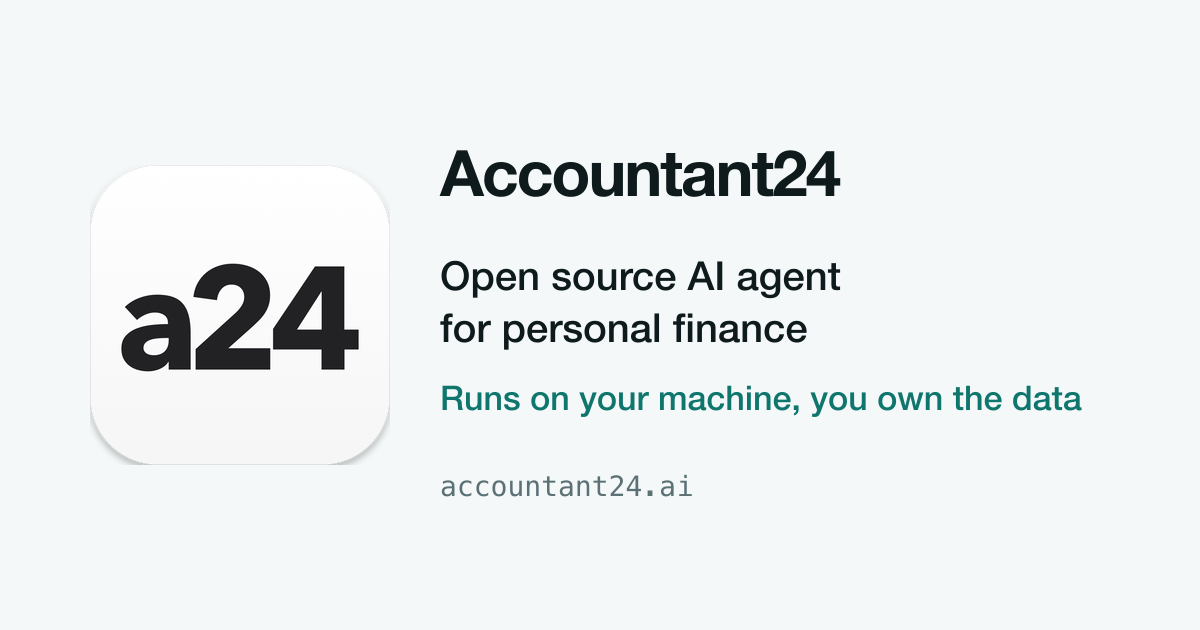
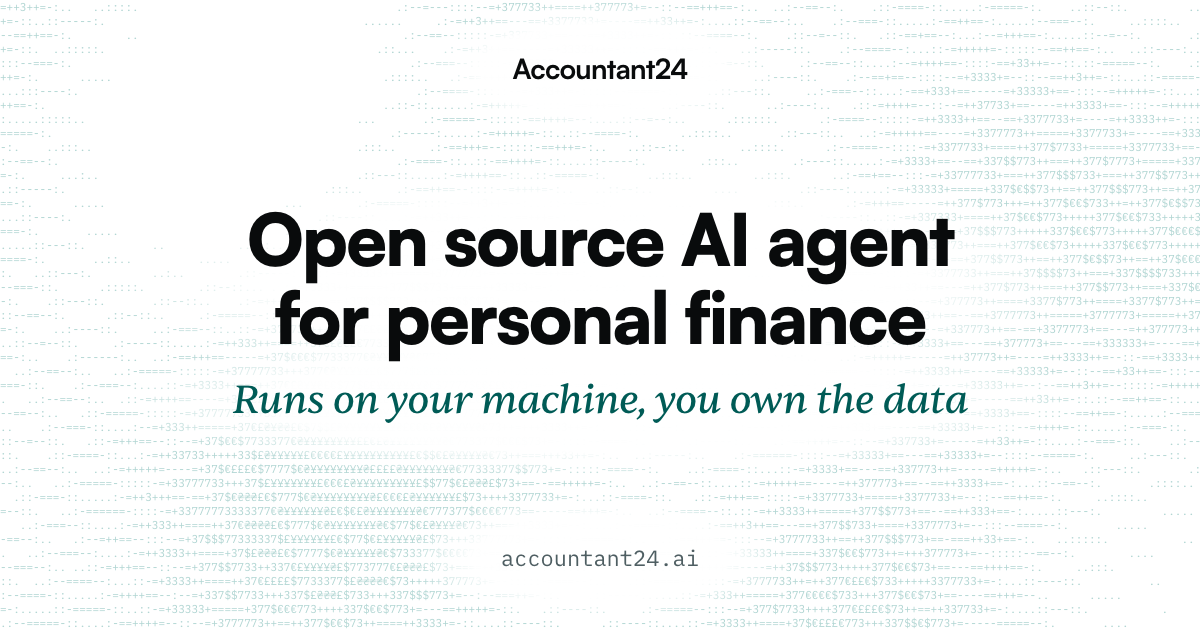
feat: match the link preview card to the landing page design
- Render the Open Graph card from an Astro page in the site's own type, palette, copy and field
- Screenshot it with Playwright through the site's dev server in `brand-assets.mjs`
- Keep the card's styles scoped and its folder out of the Tailwind scan
- Drop the desktop-icon favicon and touch icon generation from the script

diff --git a/packages/website/src/styles/global.css b/packages/website/src/styles/global.css
@@ -3,6 +3,9 @@
    live in @accountant24/demo, outside the Vite root Tailwind scans. */
 @import "@accountant24/demo/shared/styles/theme.css";
 @source "../../../demo/src";
+/* scripts/og-card.astro is rendered by brand-assets.mjs alone and styles
+   itself; its classes must not end up in the site's stylesheet. */
+@source not "../../scripts";
 
 /* Sentient italic (the hero tagline), a free Fontshare face by Indian Type
    Foundry (ITF Free Font License), self-hosted from public/fonts. */
